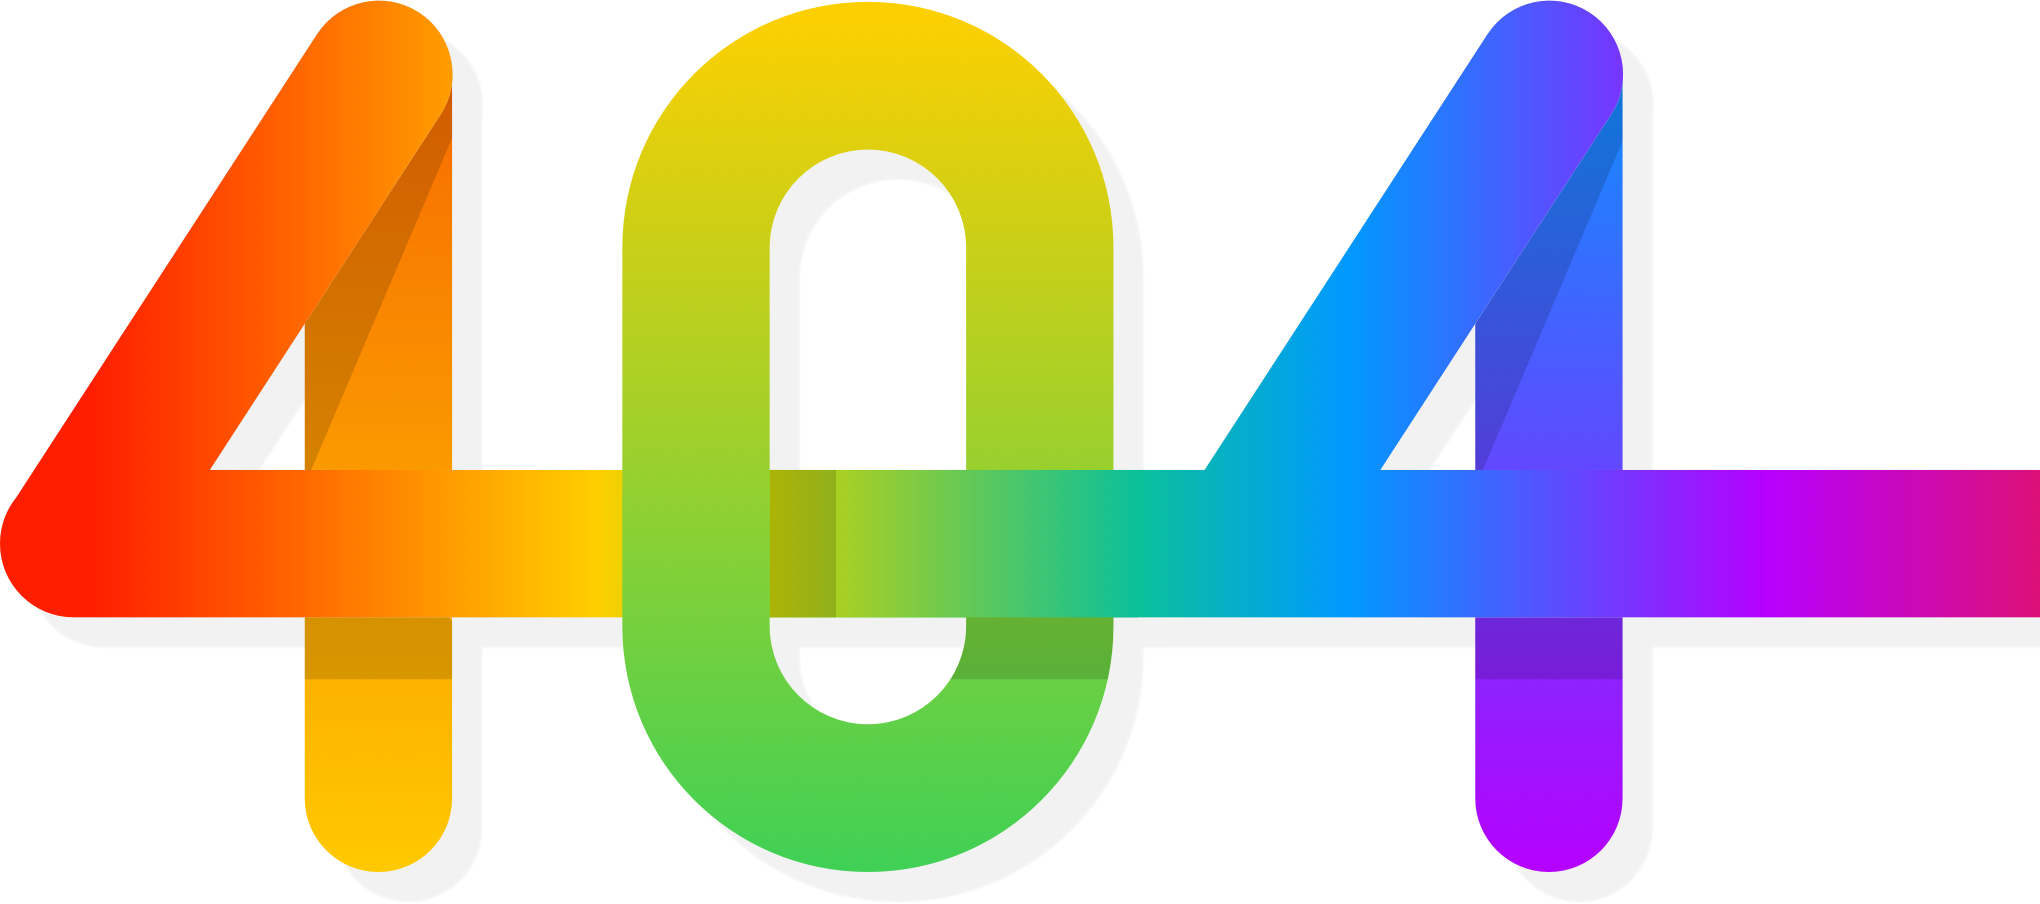
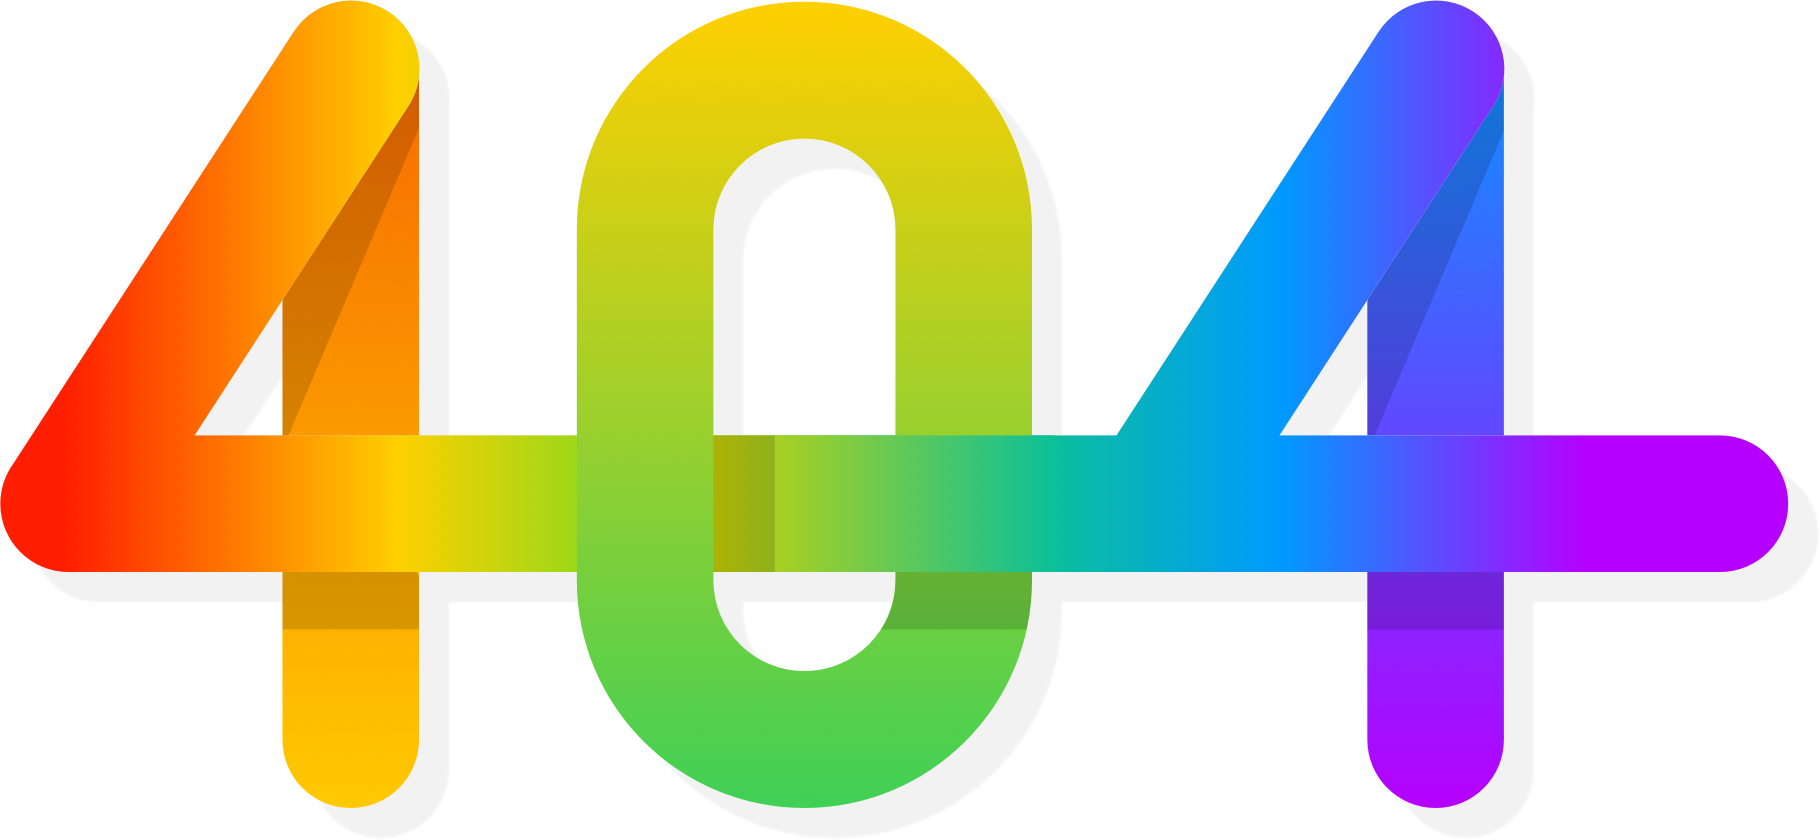
Updating 404 page

diff --git a/404.html b/404.html
@@ -12,10 +12,10 @@
     <link href='http://fonts.googleapis.com/css?family=Source+Sans+Pro:300,400' rel='stylesheet' type='text/css'>
     <link rel="stylesheet" href="//maxcdn.bootstrapcdn.com/bootstrap/3.2.0/css/bootstrap.min.css">
     <link rel="stylesheet" href="//maxcdn.bootstrapcdn.com/font-awesome/4.2.0/css/font-awesome.min.css">
-    <link rel="stylesheet" href="//adamruf.github.io//css/style.css" type="text/css" />
+    <link rel="stylesheet" href="css/style.css" type="text/css" />
 
     <!--[if lt IE 7]>
-        <link rel="stylesheet" href="http://adamruf.github.io//css/font-awesome-ie7.css" type="text/css" />
+        <link rel="stylesheet" href="http://adamruf.github.io/css/font-awesome-ie7.css" type="text/css" />
       <![endif]-->
 
     <!--[if lt IE 9]>
@@ -62,39 +62,47 @@
   <body>
     <header>
       <nav id="top-nav" class="navbar navbar-fixed-top navbar-inverse" role="navigation">
-          <div class="container centered-nav">
-            <!-- Brand and toggle get grouped for better mobile display -->
-            <div class="nav-row navbar-header">
-              <button type="button" class="navbar-toggle" data-toggle="collapse" data-target=".navbar-ex1-collapse">
-                <span class="sr-only">Toggle navigation</span>
-                <span class="icon-bar"></span>
-                <span class="icon-bar"></span>
-                <span class="icon-bar"></span>
-              </button>
-              <a id="home" class="navbar-brand" href="//adamruf.github.io/">
-                  <img src="images/logomark@2x.png" alt="Adam Ruf's logo mark, a colorful pyramid representing a user's hierarchy of needs" />
-            <span>Adam Ruf</span>
-          </a>
-            </div>
+        <div class="container centered-nav">
+          <!-- Brand and toggle get grouped for better mobile display -->
+          <div class="nav-row navbar-header">
+            <button type="button" class="navbar-toggle" data-toggle="collapse" data-target=".navbar-ex1-collapse">
+              <span class="sr-only">Toggle navigation</span>
+              <span class="icon-bar"></span>
+              <span class="icon-bar"></span>
+              <span class="icon-bar"></span>
+            </button>
+            <a id="home" class="navbar-brand" href="//adamruf.github.io/">
+              <img src="images/logomark@2x.png" alt="Adam Ruf's logo mark, a colorful pyramid representing a user's hierarchy of needs" />
+              <span>Adam Ruf</span>
+            </a>
+          </div>
 
-            <!-- Collect the nav links, forms, and other content for toggling -->
-            <div class="nav-row collapse navbar-collapse navbar-ex1-collapse">
-              <ul class="top-nav nav navbar-nav">
-                <li><a id="services" href="//adamruf.github.io//ux-ui-designer-adam-ruf-services.html">Services</a></li>
-          <li><a id="portfolio" href="//adamruf.github.io//ux-ui-designer-adam-ruf-portfolio.html">Portfolio</a></li>
-                  <li><a id="resources" href="//adamruf.github.io//ux-ui-designer-adam-ruf-recommended-resources.html">Resources</a></li>
-                  <!--<li><a id="blog" href="//blog.adamruf.github.io/adamruf.com">Blog</a></li>-->
-          <li><a id="about" href="//adamruf.github.io//about-ux-ui-designer-adam-ruf.html">About</a></li>
-          <li><a id="contact" href="//adamruf.github.io//contact-ux-ui-designer-adam-ruf.html">Contact</a></li>
-              </ul>
-            </div><!-- /.navbar-collapse -->
-          </div><!--/.container-->
-        </nav>
+          <!-- Collect the nav links, forms, and other content for toggling -->
+          <div class="nav-row collapse navbar-collapse navbar-ex1-collapse">
+            <ul class="top-nav nav navbar-nav">
+              <li><a id="services" href="//adamruf.github.io/ux-ui-designer-adam-ruf-services.html">Services</a></li>
+              <li><a id="portfolio" href="//adamruf.github.io/ux-ui-designer-adam-ruf-portfolio.html">Portfolio</a></li>
+                <li><a id="resources" href="//adamruf.github.io/ux-ui-designer-adam-ruf-recommended-resources.html">Resources</a></li>
+                <!--<li><a id="blog" href="//blog.adamruf.github.io/adamruf.com">Blog</a></li>-->
+              <li><a id="about" href="//adamruf.github.io/about-ux-ui-designer-adam-ruf.html">About</a></li>
+              <li><a id="contact" href="//adamruf.github.io/contact-ux-ui-designer-adam-ruf.html">Contact</a></li>
+            </ul>
+          </div><!-- /.navbar-collapse -->
+        </div><!--/.container-->
+      </nav>
     </header>
 
-    <section id="missing" class="container padded legroom-lg headroom-xl text-center">
-      <img src="http://adamruf.github.io//images/404-img@2x.jpg" alt="Sorry, page not found." />
-        </section>
+    <section id="missing" class="container padded legroom-lg headroom-xl">
+      <div class="row">
+        <div class="col-md-8 col-md-push-4">
+          <img class="fill-width legroom-sm" src="images/404@2x.png" alt="404 error" />
+        </div>
+        <div class="col-md-4 col-md-pull-8">
+          <p class="error-page-message">Unless you wanted to check out my 404 page, the page you wanted wasn't found.</p>
+          <p class="error-page-message">Try the links above or <a href="http://adamruf.com">head home</a>.</p>
+        </div>
+      </div>
+    </section>
 
     <footer class="row text-center">
       <div class="container padded">
@@ -116,6 +124,6 @@
 
       <script src="//ajax.googleapis.com/ajax/libs/jquery/1/jquery.min.js"></script>
       <script src="//maxcdn.bootstrapcdn.com/bootstrap/3.2.0/js/bootstrap.min.js"></script>
-    <script src="//adamruf.github.io//js/scripts.js"></script>
+    <script src="//adamruf.github.io/js/scripts.js"></script>
   </body>
 </html>

diff --git a/css/style.css b/css/style.css
@@ -318,6 +318,17 @@ HELPERS
   box-shadow: 0 5px 0 rgba(0, 0, 0, 0.1);
   transition-duration: 0.2s; }
 
+.fill-width {
+  width: 100%; }
+
+.error-page-message {
+  color: rgba(0, 0, 0, 0.42);
+  font-family: "Museo Slab", "Source Sans Pro", sans-serif;
+  font-size: 1.3em;
+  line-height: 1.4em; }
+  .error-page-message a {
+    font-weight: 300; }
+
 /* - - - - - - - - - - - - - - - - - - - - *\
 ACCORDIONS
 \* - - - - - - - - - - - - - - - - - - - - */
@@ -679,9 +690,6 @@ ul.progress-bar ul {
 /* - - - - - - - - - - - - - - - - - - - - *\
 404
 \* - - - - - - - - - - - - - - - - - - - - */
-#missing img {
-  max-height: 650px; }
-
 /* - - - - - - - - - - - - - - - - - - - - *\
 FOOTER
 \* - - - - - - - - - - - - - - - - - - - - */

diff --git a/sass/_helpers.scss b/sass/_helpers.scss
@@ -62,3 +62,17 @@ HELPERS
   box-shadow: 0 5px 0 rgba(0, 0, 0, 0.1);
   transition-duration: 0.2s;
 }
+
+.fill-width {
+  width: 100%;
+}
+
+.error-page-message {
+  color: rgba(0,0,0,0.42);
+  font-family: "Museo Slab", "Source Sans Pro", sans-serif;
+  font-size: 1.3em;
+  line-height: 1.4em;
+  & a {
+    font-weight: 300;
+  }
+}

diff --git a/sass/style.scss b/sass/style.scss
@@ -234,9 +234,6 @@ ul.progress-bar ul {
 404
 \* - - - - - - - - - - - - - - - - - - - - */
 
-#missing img {
-  max-height: 650px;
-}
 
 /* - - - - - - - - - - - - - - - - - - - - *\
 FOOTER
